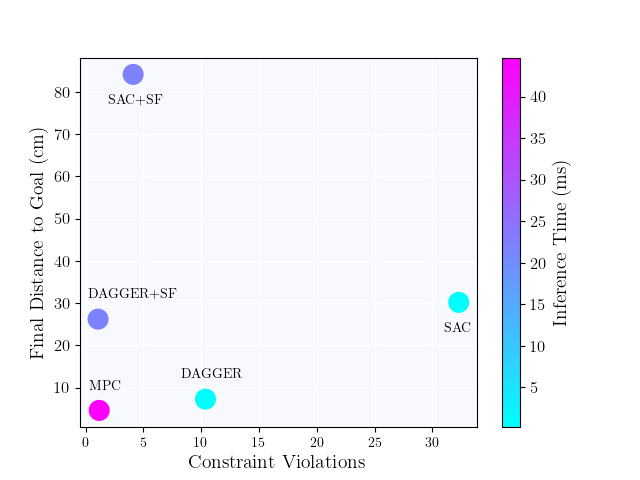
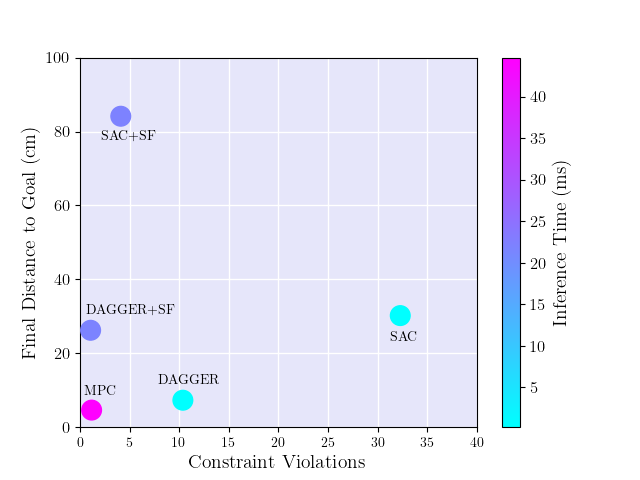
minor plot updates

diff --git a/tests/test_kpi.py b/tests/test_kpi.py
@@ -298,7 +298,7 @@ if cfg.kpi.distance_box_plot:
         patch_artist=True,
         boxprops=dict(facecolor="blueviolet"),
     )
-    ax.set_facecolor("ghostwhite")
+    ax.set_facecolor("lavender")
     ax.grid(color="white", linestyle="-", linewidth=1, zorder=0)
     ax.set_ylabel("Final Distance to Goal (cm)", fontdict={"fontsize": 14})
     fig.savefig(f"{PLOT_DIR}/kpi_distance_box.png")
@@ -349,14 +349,16 @@ if cfg.kpi.distance_constraint_time_scatter_plot:
     graph = ax.scatter(violations, rewards, zorder=3, s=200, c=timings, cmap="cool")
     graph_cbar = fig.colorbar(mappable=graph, ax=ax)
     graph_cbar.set_label("Inference Time (ms)", fontdict={"fontsize": 14})
-    ax.set_facecolor("ghostwhite")
+    ax.set_facecolor("lavender")
     ax.grid(color="white", linestyle="-", linewidth=1, zorder=0)
+    ax.set_xlim(0.0, 40)
+    ax.set_ylim(0.0, 100)
 
     # Annotate points
     for i, (txt, offset) in enumerate(
         zip(
             ["SAC", "SAC+SF", "DAGGER", "DAGGER+SF", "MPC"],
-            [(-15, -30), (-25, -30), (-25, 20), (-10, 20), (-10, 20)],
+            [(-10, -25), (-20, -25), (-25, 15), (-5, 15), (-8, 15)],
         )
     ):
         ax.annotate(
